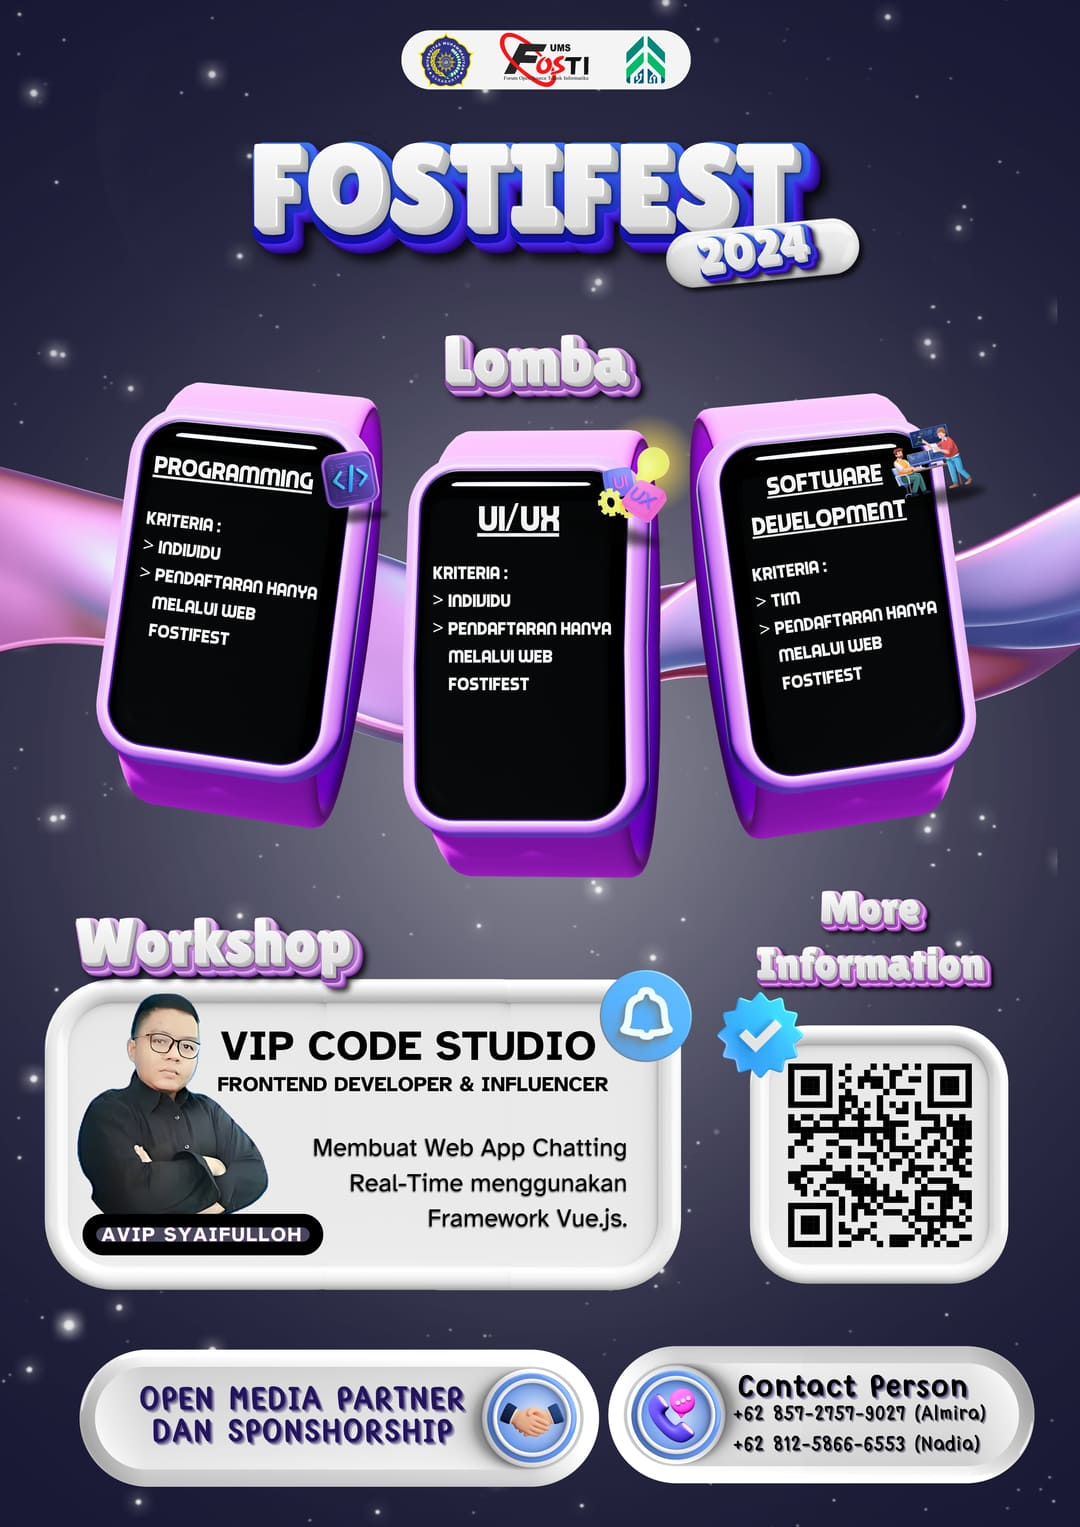
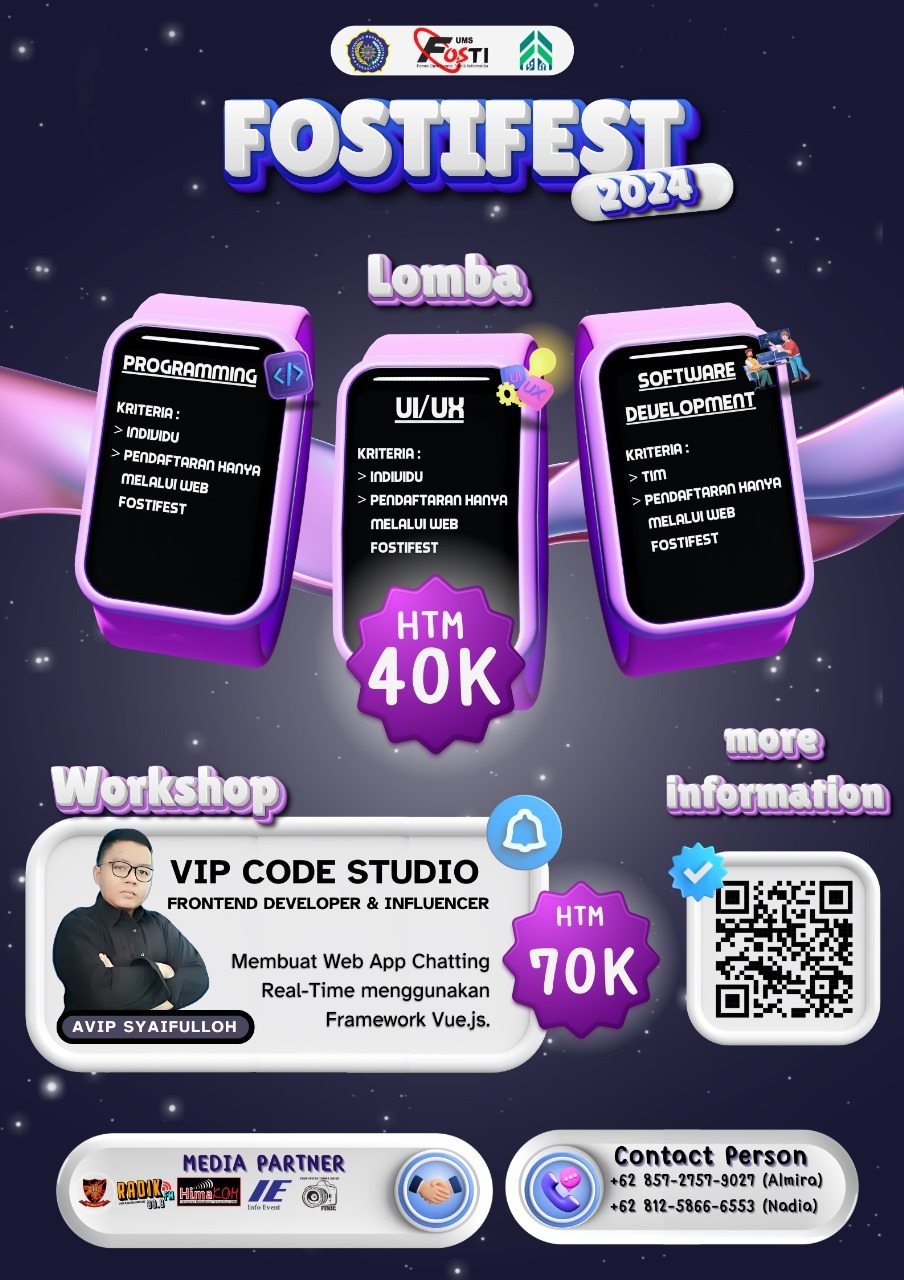
style(home): add media partner

diff --git a/src/constants/mediaPartnerConstant.js b/src/constants/mediaPartnerConstant.js
@@ -2,10 +2,12 @@ import himatif from "../../public/images/mediaPartner/himatif.png"
 import infoEvent from "../../public/images/mediaPartner/info-event.png"
 import radik from "../../public/images/mediaPartner/radik.png"
 import himakom from "../../public/images/mediaPartner/himakom.png"
+import finic from "../../public/images/mediaPartner/finic.png"
 
 export const MediaPartnerConstant = [
     himatif,
     infoEvent,
     radik,
-    himakom
+    himakom,
+    finic
 ]
